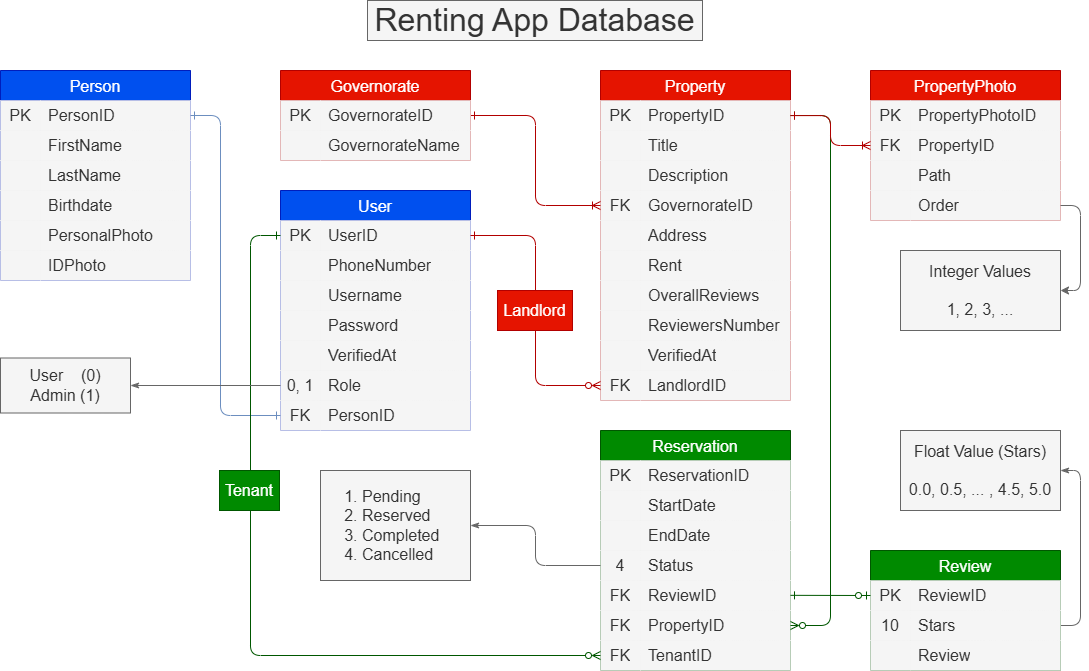
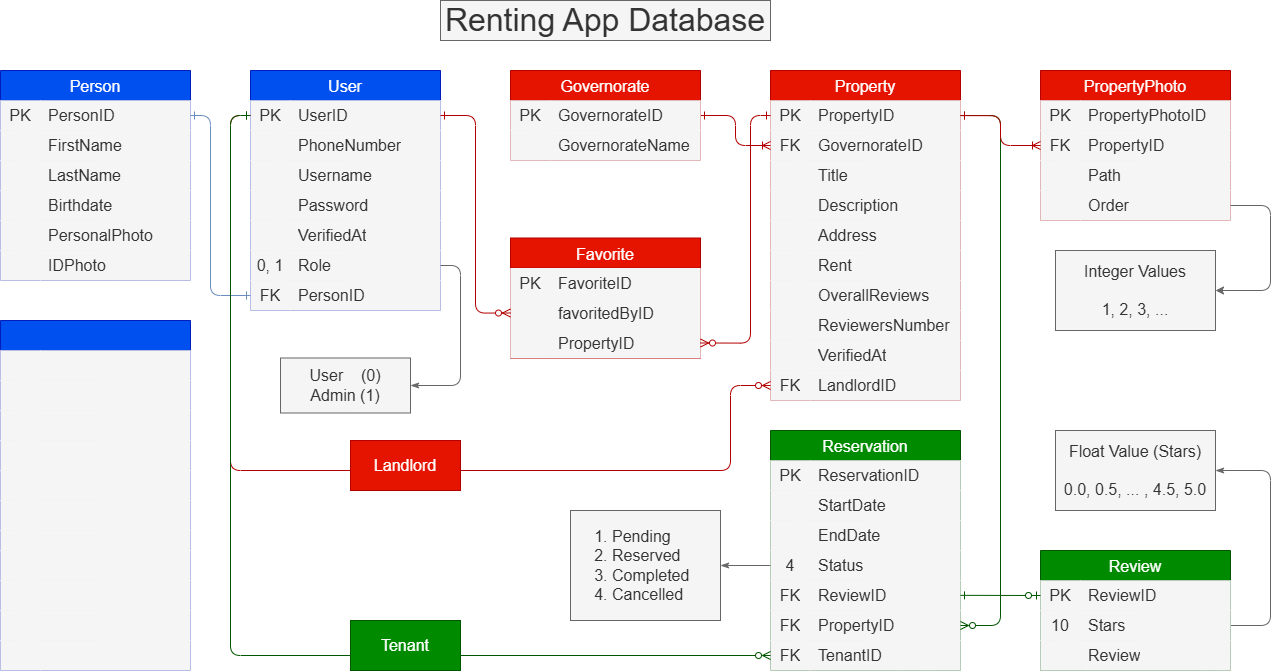
diagram rework

diff --git a/app/Repositories/Eloquent/Property/FavoritesRepository.php b/app/Repositories/Eloquent/Property/FavoritesRepository.php
@@ -5,25 +5,25 @@ namespace App\Repositories\Eloquent\Property;
 use App\Models\User\User;
 use App\Repositories\Contracts\Property\FavoritesRepositoryInterface;
 
-class FavoriteRepository implements FavoritesRepositoryInterface {
+class FavoritesRepository implements FavoritesRepositoryInterface {
     public function add($userId, $propertyId) {
         $user = User::findOrFail($userId);
-        $user->favorites()->syncWithoutDetaching([$propertyId]);
+        $user->favoriteProperties()->syncWithoutDetaching([$propertyId]);
     }
 
     public function remove($userId, $propertyId) {
         $user = User::findOrFail($userId);
-        $user->favorites()->detach($propertyId);
+        $user->favoriteProperties()->detach($propertyId);
     }
 
     public function exists($userId, $propertyId) {
         return User::findOrFail($userId)
-            ->favorites()
+            ->favoriteProperties()
             ->where('property_id', $propertyId)
             ->exists();
     }
 
     public function getUserFavorites($userId) {
-        return User::findOrFail($userId)->favorites()->get();
+        return User::findOrFail($userId)->favoriteProperties()->get();
     }
 }

diff --git a/app/Repositories/Eloquent/Property/PropertyRepository.php b/app/Repositories/Eloquent/Property/PropertyRepository.php
@@ -18,8 +18,8 @@ class PropertyRepository implements PropertyRepositoryInterface {
         return Property::with('photos', 'governorate')->findOrFail($id);
     }
 
-    public function update($id, array $data) {
-        $property = Property::findOrFail($id);
+    public function update($user, array $data) {
+        $property = Property::findOrFail($user->id);
         $property->update($data);
         return $property;
     }

diff --git a/app/Http/Controllers/Api/Property/PropertyController.php b/app/Http/Controllers/Api/Property/PropertyController.php
@@ -30,8 +30,10 @@ class PropertyController extends Controller {
         return $this->service->find($id);
     }
 
-    public function update(Request $request, $id) {
-        return $this->service->update($id, $request->all());
+    public function update(Request $request) {
+        $user = $request->user();
+
+        return $this->service->update($user, $request->all());
     }
 
     public function destroy($id) {

diff --git a/app/Models/User/User.php b/app/Models/User/User.php
@@ -47,7 +47,11 @@ class User extends Authenticatable {
         return $this->belongsTo(Person::class, 'person_id');
     }
 
-    public function favorites() {
+    public function properties() {
+        return $this->hasMany(Property::class, 'property_id');
+    }
+
+    public function favoriteProperties() {
         return $this->belongsToMany(Property::class, 'favorites')->withTimestamps();
     }
 }

diff --git a/app/Models/Property/Favorites.php b/app/Models/Property/Favorites.php
@@ -2,7 +2,17 @@
 
 namespace App\Models\Property;
 
+use App\Models\User\User;
 use Illuminate\Database\Eloquent\Model;
 
 class Favorites extends Model {
+    protected $fillable = ['user_id', 'property_id'];
+
+    public function user() {
+        return $this->belongsTo(User::class);
+    }
+
+    public function property() {
+        return $this->belongsTo(Property::class);
+    }
 }

diff --git a/app/Services/Property/PropertyService.php b/app/Services/Property/PropertyService.php
@@ -23,8 +23,8 @@ class PropertyService {
         return $this->repo->create($data);
     }
 
-    public function update($id, array $data) {
-        return $this->repo->update($id, $data);
+    public function update($user, array $data) {
+        return $this->repo->update($user, $data);
     }
 
     public function delete($id) {

diff --git a/app/Models/Property/Property.php b/app/Models/Property/Property.php
@@ -22,6 +22,10 @@ class Property extends Model {
         'user_id'
     ];
 
+    public function owner() {
+        return $this->belongsTo(User::class, 'user_id');
+    }
+
     public function governorate() {
         return $this->belongsTo(Governorate::class);
     }
